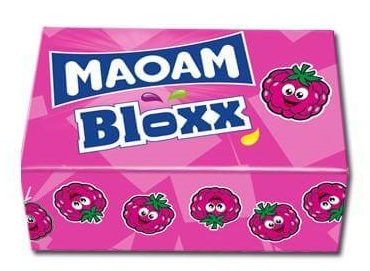
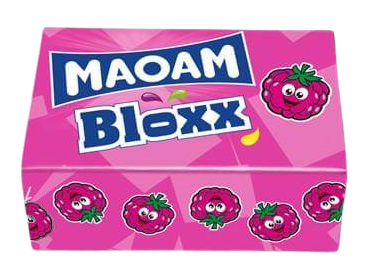
Added transparent images and made two new eventlisteners

Changed region(s): [[0.0297, 0.0886, 0.9811, 0.9742], [0.0892, 0.0886, 0.1486, 0.3247], [0.0595, 0.3247, 0.0892, 0.5609]]

diff --git a/script.js b/script.js
@@ -1,5 +1,3 @@
-const blocks = document.querySelectorAll('.block');
-
 const colors = [
     {
         src: '/img/citrus-block.png',
@@ -23,6 +21,8 @@ const colors = [
     }
 ];
 
+const blocks = document.querySelectorAll('.block');
+
 blocks.forEach(block => {
     block.addEventListener('click', (e) => {
         e.preventDefault();
@@ -33,7 +33,25 @@ blocks.forEach(block => {
         const index = e.target.dataset.indexNumber;
         e.target.src = colors[index].src;
         e.target.alt = colors[index].alt;
-        
-        
     });
+    block.addEventListener('contextmenu', (e) => {
+        e.preventDefault();
+        e.onContextMenu = false;
+        let randomNumber = Math.floor(Math.random()*5);
+        e.target.src = colors[randomNumber].src;
+        e.target.alt = colors[randomNumber].alt;
+    })
+});
+
+document.addEventListener('keypress', (e) => {
+    e.preventDefault();
+    if (e.charCode == 114) {
+        const blocks = document.querySelectorAll('.block');
+        blocks.forEach(block => {
+            let randomNumber = Math.floor(Math.random()*5);
+            let img = block.querySelector('img');
+            img.src = colors[randomNumber].src;
+            img.alt = colors[randomNumber].alt;
+        });
+    };
 });

diff --git a/styles/style.css b/styles/style.css
@@ -1,11 +1,12 @@
 body {
     margin: 0;
     padding: 0;
-    background: white;
+    background: rgb(255, 255, 54);
     width: 100%;
     height: 100vh;
     display: flex;
     justify-content: center;
+    align-items: center;
     flex-direction: column;
 }
 
@@ -13,6 +14,7 @@ body {
     display: flex;
     justify-content: center;
     align-items: center;
+    flex-wrap: wrap;
 }
 
 .block {
@@ -20,7 +22,7 @@ body {
     display: flex;
     justify-content: center;
     align-items: center;
-    background: rgba(128, 128, 128, 0.349);
+    background-color: transparent;
     height: 100px;
     width: 200px;
     margin: 10px;

diff --git a/index.html b/index.html
@@ -24,13 +24,7 @@
         <button class="block">
             <img src="/img/strawberry-block.png" alt="Stawberry" data-index-number="4">
         </button>
-        <button class="btn add-column">
-            <img src="/img/add_plus-512.webp" alt="Add column">
-        </button>
     </section>
-    <button class="btn add-row">
-        <img src="/img/add_plus-512.webp" alt="Add row">
-    </button>
     <script src="/script.js"></script>
 </body>
 </html>
